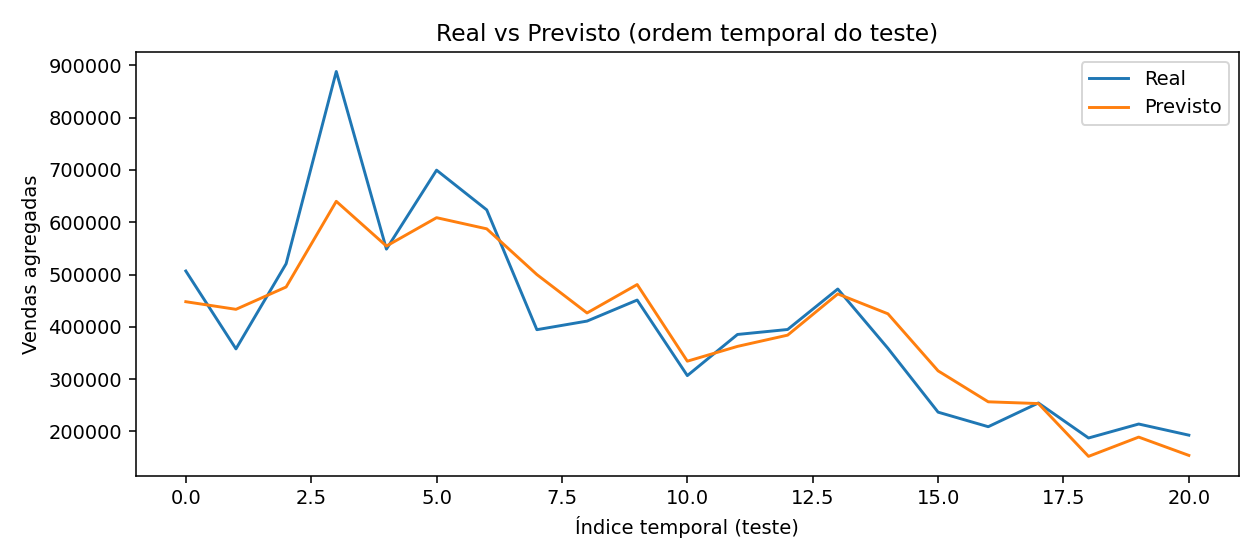
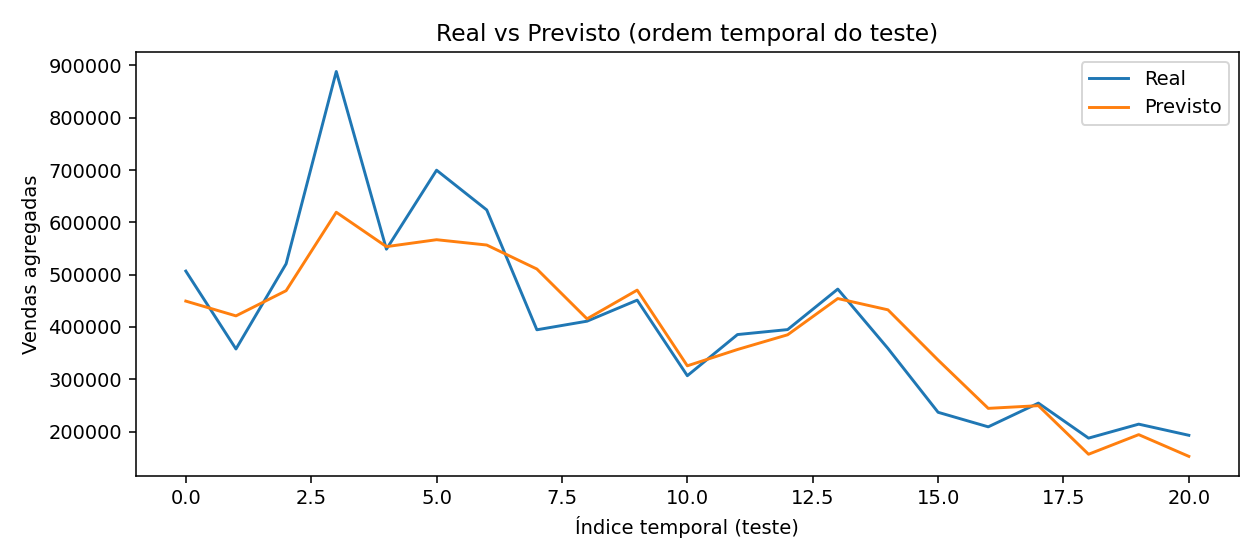
geral 0.5.4v (ajuste IA para analise mensal e mais graficos)

diff --git a/fluxo_analise_vendas.py b/fluxo_analise_vendas.py
@@ -9,6 +9,14 @@ Pipeline completo com:
 - Split temporal (treino = mais antigo; teste = mais recente)
 - Treino de modelo (XGBoost se disponível; fallback: GradientBoosting)
 - Métricas + figuras (correlação, importâncias, real vs previsto)
+
+>>> NOVO:
+- Análise de vendas MENSAIS (CSV + 4 gráficos intuitivos)
+  * Barras: faturamento por mês (com rótulos R$)
+  * Barras: unidades por mês (com rótulos)
+  * Linha: tendência com média móvel de 3 meses
+  * Barras: comparação ano a ano por mês (se houver >= 2 anos)
+
 Saídas em ./outputs
 """
 
@@ -21,6 +29,8 @@ warnings.filterwarnings("ignore")
 import numpy as np
 import pandas as pd
 import matplotlib.pyplot as plt
+import matplotlib.dates as mdates
+import calendar
 from datetime import date, timedelta
 
 # XGBoost opcional; se não houver, usa GradientBoosting como fallback
@@ -34,8 +44,8 @@ from sklearn.ensemble import GradientBoostingRegressor
 from sklearn.metrics import mean_squared_error, mean_absolute_error
 
 # ----------------------------- CONFIG -----------------------------
-DB_PATH = r"./db-copy.sqlite3"          # <<< AJUSTE AQUI se necessário
-OUT_DIR = r"./outputs"             # <<< AJUSTE AQUI se quiser outra pasta
+DB_PATH = r"./db-copy.sqlite3"         # <<< AJUSTE AQUI se necessário (caminho do seu banco)
+OUT_DIR = r"./outputs"                 # <<< AJUSTE AQUI se quiser outra pasta
 os.makedirs(OUT_DIR, exist_ok=True)
 
 CSV_JOINED = os.path.join(OUT_DIR, "sales_saleitem_joined_from_db.csv")
@@ -47,7 +57,29 @@ PNG_CORR   = os.path.join(OUT_DIR, "correlacao_heatmap.png")
 PNG_FIMP   = os.path.join(OUT_DIR, "feature_importances.png")
 PNG_AVP    = os.path.join(OUT_DIR, "actual_vs_pred.png")
 
+# >>> Novos arquivos da análise mensal
+CSV_MONTHLY         = os.path.join(OUT_DIR, "monthly_sales.csv")
+PNG_MONTHLY_REVENUE = os.path.join(OUT_DIR, "monthly_revenue_bar.png")
+PNG_MONTHLY_QTY     = os.path.join(OUT_DIR, "monthly_qty_bar.png")
+PNG_MONTHLY_TREND   = os.path.join(OUT_DIR, "monthly_revenue_trend.png")
+PNG_MONTHLY_YOY     = os.path.join(OUT_DIR, "monthly_yoy_comparison.png")
+
 TOP_K = 5  # top-N marcas e categorias para one-hot semanal
+
+
+# ----------------------- UTILS GERAIS -----------------------
+def fmt_brl(v: float) -> str:
+    """Formata valor numérico em BRL: R$ 12.345 (sem casas decimais)."""
+    s = f"{float(v):,.0f}".replace(",", "X").replace(".", ",").replace("X", ".")
+    return f"R$ {s}"
+
+
+def slugify(s: str) -> str:
+    s = s.lower()
+    s = re.sub(r"[^\w]+", "_", s, flags=re.UNICODE)
+    s = re.sub(r"(^_+|_+$)", "", s)
+    return (s or "unknown")[:40]
+
 
 # ----------------------- UTIL: datas móveis BR ---------------------
 def easter_sunday(year: int) -> date:
@@ -89,11 +121,6 @@ def nth_weekday_of_month(year: int, month: int, weekday: int, n: int) -> date:
     first = d + timedelta(days=offset)
     return first + timedelta(weeks=n-1)
 
-def slugify(s: str) -> str:
-    s = s.lower()
-    s = re.sub(r"[^\w]+", "_", s, flags=re.UNICODE)
-    s = re.sub(r"(^_+|_+$)", "", s)
-    return (s or "unknown")[:40]
 
 # -------------------------- 1) EXPORTAÇÃO --------------------------
 def exportar_joinado(db_path: str, out_csv: str) -> pd.DataFrame:
@@ -128,6 +155,7 @@ def exportar_joinado(db_path: str, out_csv: str) -> pd.DataFrame:
 
     df.to_csv(out_csv, index=False)
     return df
+
 
 # --------------- 2) FEATURE ENGINEERING + EDA ----------------------
 def add_seasonality_flags_daily(daily: pd.DataFrame) -> pd.DataFrame:
@@ -169,6 +197,7 @@ def add_seasonality_flags_daily(daily: pd.DataFrame) -> pd.DataFrame:
         d.loc[mask_y & dd.between(nat_ini, nat_fim), "natal"] = 1
 
     return d
+
 
 def preparar_dados(df_joined: pd.DataFrame):
     df = df_joined.copy()
@@ -254,20 +283,16 @@ def preparar_dados(df_joined: pd.DataFrame):
     else:
         cat_cols = {}
 
-    # ---- Tratamento ROBUSTO dos dummies (EVITA KeyError) ----
+    # ---- Tratamento robusto dos dummies (evita KeyError) ----
     dummy_cols = list(brand_cols.values()) + list(cat_cols.values())
-
-    # 1) Cria explicitamente as colunas dummies que estiverem faltando
     for c in dummy_cols:
         if c not in weekly.columns:
             weekly[c] = 0.0
-
-    # 2) Só faz fillna nas colunas que existem no DataFrame
     existing = [c for c in dummy_cols if c in weekly.columns]
     if existing:
         weekly[existing] = weekly[existing].fillna(0.0)
 
-    # Salvar CSVs
+    # Salvar CSVs (auditoria)
     df.to_csv(CSV_LINE, index=False)
     daily.to_csv(CSV_DAILY, index=False)
     weekly.to_csv(CSV_WEEKLY, index=False)
@@ -293,6 +318,112 @@ def preparar_dados(df_joined: pd.DataFrame):
         "cat_dummy_cols": list(cat_cols.values())
     }
     return df, daily, weekly, meta
+
+
+# -------- NOVO: ANÁLISE MENSAL (gráficos intuitivos p/ leigos) -----
+def analise_vendas_mensais(daily: pd.DataFrame) -> pd.DataFrame:
+    """
+    Recebe agregado DIÁRIO e produz:
+      - monthly_sales.csv
+      - monthly_revenue_bar.png
+      - monthly_qty_bar.png
+      - monthly_revenue_trend.png
+      - monthly_yoy_comparison.png (se houver >= 2 anos)
+    """
+    if daily is None or daily.empty:
+        print("[!] Daily vazio — não foi possível gerar análise mensal.")
+        return pd.DataFrame()
+
+    d = daily.copy()
+    d["date"] = pd.to_datetime(d["date"])
+    d["ym"] = d["date"].dt.to_period("M").dt.to_timestamp()
+
+    monthly = (
+        d.groupby("ym", as_index=False)
+         .agg(total_revenue=("total_revenue", "sum"),
+              total_qty=("total_qty", "sum"),
+              num_items=("num_items", "sum"))
+         .sort_values("ym")
+    )
+    monthly.to_csv(CSV_MONTHLY, index=False)
+
+    # 1) Barras: faturamento por mês
+    plt.figure(figsize=(11, 5))
+    ax = plt.gca()
+    xlabels = monthly["ym"].dt.strftime("%Y-%m")
+    ax.bar(xlabels, monthly["total_revenue"])
+    ax.set_title("Faturamento por mês")
+    ax.set_xlabel("Mês")
+    ax.set_ylabel("Faturamento (R$)")
+    ax.tick_params(axis="x", rotation=45)
+    for i, v in enumerate(monthly["total_revenue"].values):
+        ax.text(i, v, fmt_brl(v), ha="center", va="bottom", fontsize=8)
+    plt.tight_layout()
+    plt.savefig(PNG_MONTHLY_REVENUE, dpi=140)
+    plt.close()
+
+    # 2) Barras: quantidade por mês
+    plt.figure(figsize=(11, 5))
+    ax = plt.gca()
+    ax.bar(xlabels, monthly["total_qty"])
+    ax.set_title("Unidades vendidas por mês")
+    ax.set_xlabel("Mês")
+    ax.set_ylabel("Unidades")
+    ax.tick_params(axis="x", rotation=45)
+    for i, v in enumerate(monthly["total_qty"].values):
+        ax.text(i, v, f"{int(v):,}".replace(",", "."), ha="center", va="bottom", fontsize=8)
+    plt.tight_layout()
+    plt.savefig(PNG_MONTHLY_QTY, dpi=140)
+    plt.close()
+
+    # 3) Tendência: linha + média móvel 3 meses
+    plt.figure(figsize=(11, 5))
+    ax = plt.gca()
+    ax.plot(monthly["ym"], monthly["total_revenue"], marker="o", label="Faturamento")
+    ax.plot(monthly["ym"], monthly["total_revenue"].rolling(3).mean(),
+            linestyle="--", label="Média móvel 3 meses")
+    ax.set_title("Tendência mensal do faturamento")
+    ax.set_xlabel("Mês")
+    ax.set_ylabel("Faturamento (R$)")
+    ax.legend()
+    ax.xaxis.set_major_formatter(mdates.DateFormatter("%Y-%m"))
+    plt.xticks(rotation=45)
+    plt.tight_layout()
+    plt.savefig(PNG_MONTHLY_TREND, dpi=140)
+    plt.close()
+
+    # 4) Ano a ano (se houver >= 2 anos)
+    d["year"] = d["date"].dt.year
+    d["month"] = d["date"].dt.month
+    yoy = d.groupby(["year", "month"], as_index=False)["total_revenue"].sum()
+    anos = sorted(yoy["year"].unique())
+    if len(anos) >= 2:
+        ult2 = anos[-2:]
+        pvt = (yoy[yoy["year"].isin(ult2)]
+               .pivot(index="month", columns="year", values="total_revenue")
+               .sort_index())
+        idx = np.arange(len(pvt.index))
+        width = 0.35
+
+        plt.figure(figsize=(11, 5))
+        ax = plt.gca()
+        vals_a = pvt.get(ult2[0], pd.Series(index=pvt.index, dtype=float)).fillna(0).values
+        vals_b = pvt.get(ult2[1], pd.Series(index=pvt.index, dtype=float)).fillna(0).values
+        ax.bar(idx - width/2, vals_a, width, label=str(ult2[0]))
+        ax.bar(idx + width/2, vals_b, width, label=str(ult2[1]))
+        ax.set_xticks(idx)
+        ax.set_xticklabels([calendar.month_abbr[m].capitalize() for m in pvt.index])
+        ax.set_title("Faturamento por mês (comparação ano a ano)")
+        ax.set_xlabel("Mês")
+        ax.set_ylabel("Faturamento (R$)")
+        ax.legend(title="Ano")
+        plt.tight_layout()
+        plt.savefig(PNG_MONTHLY_YOY, dpi=140)
+        plt.close()
+
+    print(f"[OK] Análise mensal salva em: {CSV_MONTHLY}")
+    return monthly
+
 
 # --------- 3) FEATURES TEMPORAIS + SPLIT SEM VAZAMENTO ------------
 def criar_features_temporais(df_agg: pd.DataFrame, date_col: str, target_col: str, add_lags=True):
@@ -332,12 +463,14 @@ def criar_features_temporais(df_agg: pd.DataFrame, date_col: str, target_col: st
     y = d[target_col].copy()
     return X, y, d, features
 
+
 def split_temporal(X: pd.DataFrame, y: pd.Series, train_ratio=0.8):
     n = len(X)
     cut = max(1, int(n * train_ratio))
     X_train, X_test = X.iloc[:cut], X.iloc[cut:]
     y_train, y_test = y.iloc[:cut], y.iloc[cut:]
     return X_train, X_test, y_train, y_test
+
 
 # ----------------------- 4) MODELO + MÉTRICAS ----------------------
 def treinar_modelo(X_train, y_train):
@@ -361,13 +494,13 @@ def treinar_modelo(X_train, y_train):
     model.fit(X_train, y_train)
     return model
 
+
 def avaliar_modelo(model, X_test, y_test, features):
     if len(X_test) == 0:
         return {"warning": "Sem dados de teste para avaliar."}
 
     y_pred = model.predict(X_test)
-    #rmse = mean_squared_error(y_test, y_pred, squared=False)
-    # Compatibilidade com versões antigas do sklearn: some versions don't accept 'squared' kwarg
+    # Compatibilidade com versões diferentes do sklearn:
     try:
         rmse = mean_squared_error(y_test, y_pred, squared=False)
     except TypeError:
@@ -376,7 +509,7 @@ def avaliar_modelo(model, X_test, y_test, features):
     mae  = mean_absolute_error(y_test, y_pred)
     mape = (np.abs((y_test - y_pred) / np.maximum(np.abs(y_test), 1e-9)).mean()) * 100.0
 
-    # Real vs Previsto
+    # Real vs Previsto (ordem temporal)
     plt.figure(figsize=(9, 4))
     plt.plot(y_test.values, label="Real")
     plt.plot(y_pred, label="Previsto")
@@ -392,9 +525,9 @@ def avaliar_modelo(model, X_test, y_test, features):
     if hasattr(model, "feature_importances_"):
         imp = model.feature_importances_
         order = np.argsort(imp)[::-1]
-        plt.figure(figsize=(9, 5))
+        plt.figure(figsize=(11, 5))
         plt.bar(range(len(order)), imp[order])
-        plt.xticks(range(len(order)), np.array(features)[order], rotation=45, ha="right")
+        plt.xticks(range(len(order)), np.array(features)[order], rotation=60, ha="right")
         plt.title("Importância das Features")
         plt.tight_layout()
         plt.savefig(PNG_FIMP, dpi=140)
@@ -402,17 +535,19 @@ def avaliar_modelo(model, X_test, y_test, features):
 
     return {"rmse": rmse, "mae": mae, "mape": mape, "n_test": len(y_test)}
 
+
 # ------------------------------- MAIN ------------------------------
 if __name__ == "__main__":
     # 1) Exporta do SQLite para CSV joinado
     df_joined = exportar_joinado(DB_PATH, CSV_JOINED)
-    #df_joined = pd.read_csv('./sales_saleitem_synthetic_joined.csv')
 
     # 2) Prepara dados + flags sazonais + one-hot semanal
     df_line, df_daily, df_weekly, meta = preparar_dados(df_joined)
-    df_line, df_daily, df_weekly, meta = preparar_dados(df_joined)
 
-    # 3) Nível de previsão: semanal é mais estável em varejo
+    # 2.1) >>> NOVO: Análise mensal (gráficos fáceis de entender)
+    _ = analise_vendas_mensais(df_daily)
+
+    # 3) Nível de previsão: semanal (mais estável)
     base = df_weekly.rename(columns={"week_start": "date", "total_revenue": "y"})
 
     # 4) Cria features + split temporal (sem vazamento)
